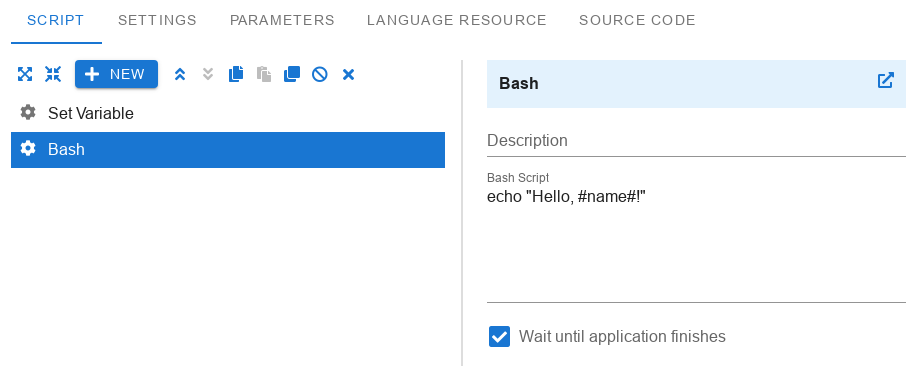
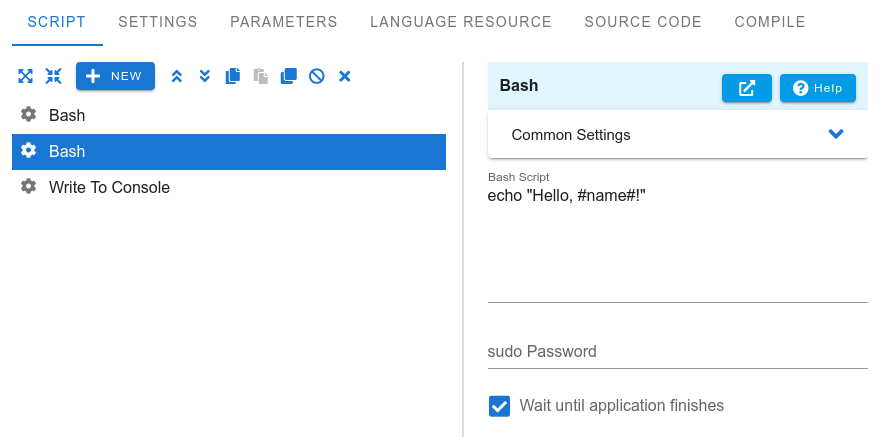
Update bash command

diff --git a/ru/scripts/bash.md b/ru/scripts/bash.md
@@ -11,5 +11,8 @@ desc: Команда выполняет указанный bash скрипт.
 **Bash скрипт**  
 Укажите код скрипта на языке Bash, который вы хотите выполнить.
 
+**Пароль sudo**  
+Вы можете указать пароль sudo, если хотите запустить скрипт с правами суперпользователя. Не указывайте пароль в явном виде. Лучше определить соответствующее значение в защищённом хранилище Pro версии и указать здесь имя значения (например, #@rootpsw#). Также можно запрашивать пароль с помощью команды [Форма](form.html) и указывать здесь соответствующее имя переменной (например, #rootpsw#). В этом случае, пароль будет недоступен третьим лицам.
+
 **Ждать окончания работы приложения**  
 Отметьте этот чекбокс, если вы хотите дождаться окончания работы bash скрипта. В противном случае, следующая команда будет выполнятся сразу после вызова bash, не дожидаясь окончания его работы.

diff --git a/en/scripts/bash.md b/en/scripts/bash.md
@@ -15,5 +15,8 @@ The **Bash** command executes the specified bash script. You must specify the sc
 **Bash Script**  
 Specify the Bash script code that you want to execute.
 
+**sudo Password**  
+You can provide a sudo password if you want to run the script as superuser. Do not explicitly enter your password. It is better to define the corresponding value in the Secure Storage of the Pro version and specify the value name here (for example, #@rootpsw#). You can also request a password using the [Form](form.html) command and specify the appropriate variable name here (for example, #rootpsw#). In this case, the password will not be available to third parties.
+
 **Wait until application finishes**  
 Check this box if you want to wait for the bash script to finish. Otherwise, the next command will be executed right after the call to bash, without waiting for it to finish.

diff --git a/ru/docs/changelog-2021.md b/ru/docs/changelog-2021.md
@@ -6,6 +6,9 @@ desc: История изменений программы Eonza за 2021
 
 <!--## Бета версия 1.8.0
 ## Версия разработчика -->
+## Версия разработчика
+
+* Добавлен параметр *Пароль sudo* в команду [Bash](/ru/scripts/bash.html).
 
 ## Версия 1.22.0 - 2021/10/01
 

diff --git a/en/docs/changelog-2021.md b/en/docs/changelog-2021.md
@@ -7,6 +7,10 @@ desc: Eonza Program Changelog for 2021
 <!--## Beta version 1.8.0 
 ## Developer version-->
 
+## Developer version
+
+* Added the *sudo Password* parameter to the [Bash](/scripts/bash.html) command.
+
 ## Version 1.22.0 - 2021/10/01
 
 * Added the [Get Excel Cells](/scripts/get-excel-cells.html) command.

diff --git a/en/pro-version.md b/en/pro-version.md
@@ -35,7 +35,7 @@ If you use Eonza, you can become one of the first users of the Pro version for f
 
 License Term | Used/Reserved
 -------------|---------------
-**1 year** | **29/64**
+**1 year** | **30/64**
 
 ## Purchase Pro version
 
